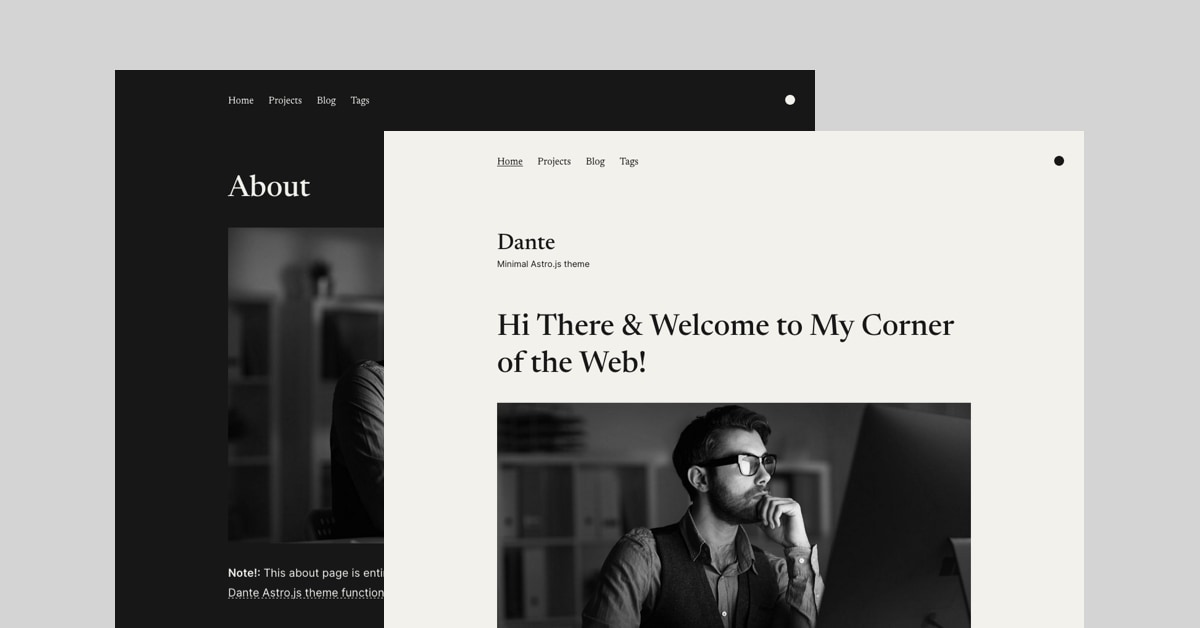
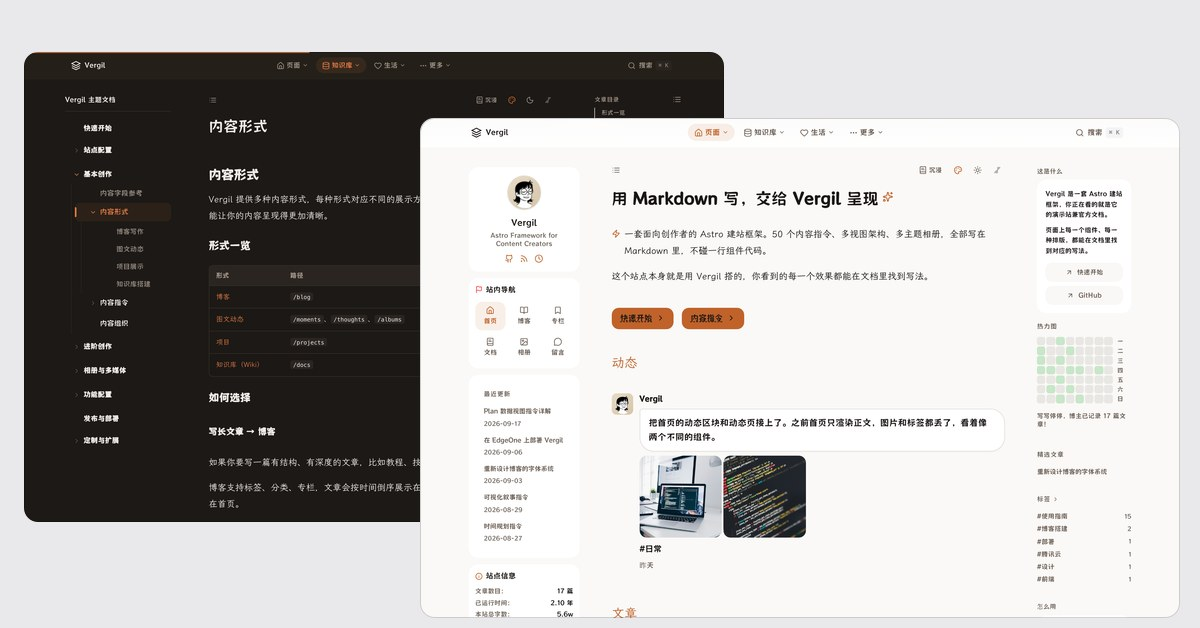
feat: 更换开屏、头像与分享预览图，修复极简模式空分类标签

diff --git a/src/data/config/splash.ts b/src/data/config/splash.ts
@@ -1,9 +1,10 @@
 export const splash = {
     enabled: true,
+    /** 开屏背景。主题自带的门面图放在 public/demo/ 下，不走外部图床 */
     backgroundImage: [
-        'https://images.unsplash.com/photo-1506744038136-46273834b3fb?w=1920&q=80',
-        'https://images.unsplash.com/photo-1470071459604-3b5ec3a7fe05?w=1920&q=80',
-        'https://images.unsplash.com/photo-1441974231531-c6227db76b6e?w=1920&q=80'
+        '/demo/splash-01.webp',
+        '/demo/splash-02.webp',
+        '/demo/splash-03.webp'
     ],
     overlay: 'rgba(0,0,0,0.1)',
     textShadow: true,

diff --git a/README.md b/README.md
@@ -12,9 +12,7 @@
 [![License](https://img.shields.io/badge/License-MIT-green.svg)](LICENSE)
 [![GitHub stars](https://img.shields.io/github/stars/wsjz/vergil-astro-theme?style=social)](https://github.com/wsjz/vergil-astro-theme)
 
-![首页](.github/3.jpg)
-![文章页](.github/1.jpg)
-![文档目录](.github/2.jpg)
+![Vergil 深色文档页与浅色首页](public/vergil-preview.jpg)
 
 </div>
 
@@ -67,6 +65,10 @@ pnpm reset     # 加 --dry 先看会删什么
 | **侧边栏** | 左右侧栏组件可插拔，热力图、标签云、目录、相关文章 |
 | **开箱即用** | 深色模式、全文搜索、评论、RSS、Sitemap、站点助理 |
 | **界面语言** | 主题文案支持中英切换，你写的内容不受影响 |
+
+![四种页面的实际效果](.github/features.jpg)
+
+四格分别是：文章里的折叠块与时间线指令、Golden 主题的影集、带侧边目录树的知识库、按分类筛选的沉浸阅读视图。
 
 具体怎么配、怎么写，跑起来之后站内的 `/docs` 就是完整文档，源文件在 [`src/content/docs/vergil-guide/`](src/content/docs/vergil-guide)。
 

diff --git a/CONTRIBUTING.md b/CONTRIBUTING.md
@@ -25,13 +25,7 @@ pnpm dev
 pnpm build
 ```
 
-构建必须通过。改了指令相关的代码再跑一次指令计数校验：
-
-```bash
-node scripts/count-directives.mjs
-```
-
-它会对比代码里的指令数量和文档里写的数字，对不上就退出报错。
+构建必须通过。
 
 ## 提交信息
 
